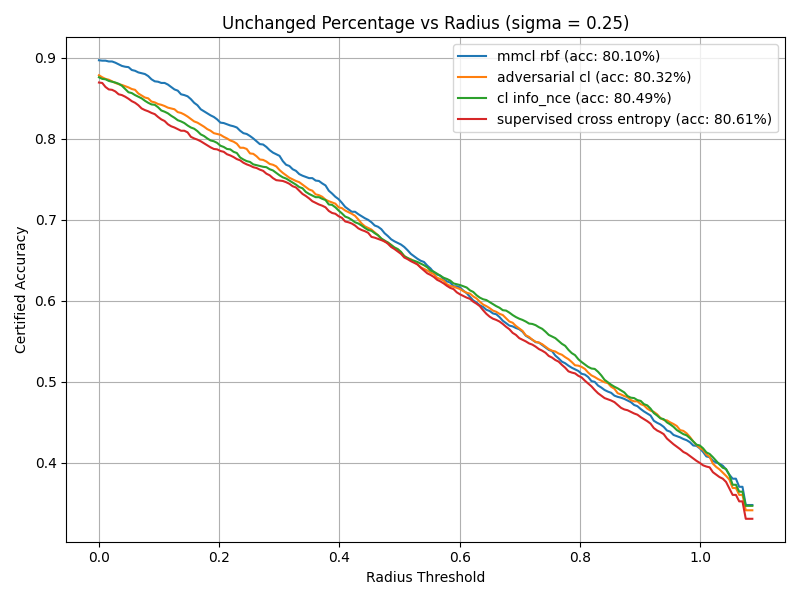
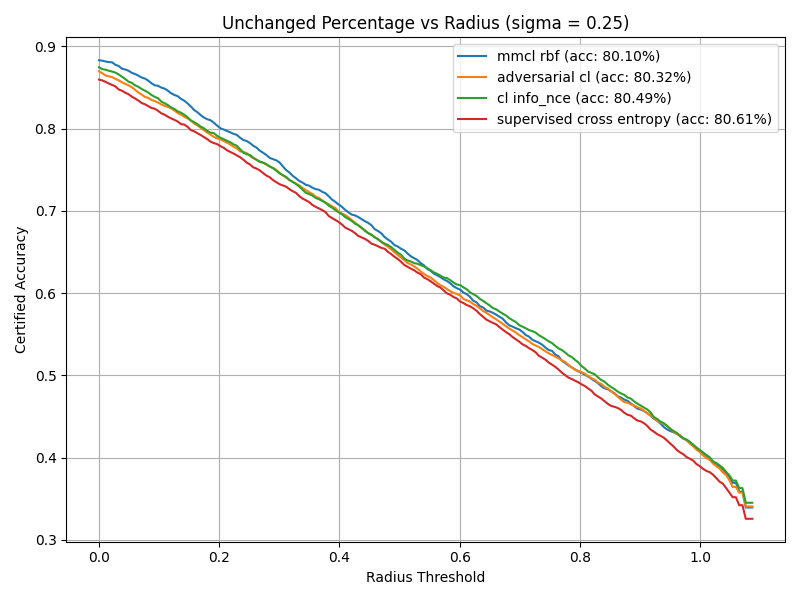
Small updates

diff --git a/randomized_smoothing/compare_randomized_smoothing_resnet.py b/randomized_smoothing/compare_randomized_smoothing_resnet.py
@@ -103,7 +103,7 @@ def update_results(
         image, args.N0, args.N, args.alpha, args.batch
     )
     predicted_label = get_ori_model_predicition(ori_model, image)
-    print(f"\nModel: {model_name}, true_label: {true_label}, predicted_label: {predicted_label}, rs_label: {rs_label}, radius: {radius}")
+    print(f"\nModel: {model_name}, true_label: {true_label}, predicted_label: {predicted_label}, rs_label: {rs_label}, radius: {radius}, sigma: {verifier.sigma}")
     results[model_name].append({
         "sigma": verifier.sigma,
         "radius": radius,
@@ -114,7 +114,7 @@ def update_results(
 
 def get_test_set_accuracy(model):
     total_correct, total_samples = 0, 0
-    for images, targets in testloader:
+    for images, targets in tqdm(testloader):
         images, targets = images.to(device), targets.to(device)
         logits = model(images)
         predictions = torch.argmax(logits, dim=1)

diff --git a/randomized_smoothing/compare_randomized_smoothing.py b/randomized_smoothing/compare_randomized_smoothing.py
@@ -110,7 +110,7 @@ def update_results(
         image, args.N0, args.N, args.alpha, args.batch
     )
     predicted_label = get_ori_model_predicition(ori_model, image)
-    print(f"\nModel: {model_name}, true_label: {true_label}, predicted_label: {predicted_label}, rs_label: {rs_label}, radius: {radius}")
+    print(f"\nModel: {model_name}, true_label: {true_label}, predicted_label: {predicted_label}, rs_label: {rs_label}, radius: {radius}, sigma: {verifier.sigma}")
     results[model_name].append({
         "sigma": verifier.sigma,
         "radius": radius,

diff --git a/plot_from_json/randomized_smoothing_compute.py b/plot_from_json/randomized_smoothing_compute.py
@@ -44,7 +44,7 @@ def plot_one_certified_accuracy_per_sigma(data):
             y_vals = []
             for r in x_vals:
                 count = sum(
-                    1 for rec in records if rec["radius"] >= r and rec["true_label"] == rec["rs_label"]
+                    1 for rec in records if rec["radius"] >= r and rec["true_label"] == rec["rs_label"] == rec["predicted_label"]
                 )
                 y_vals.append(count / total if total > 0 else 0)
             # Construct legend label with test accuracy
